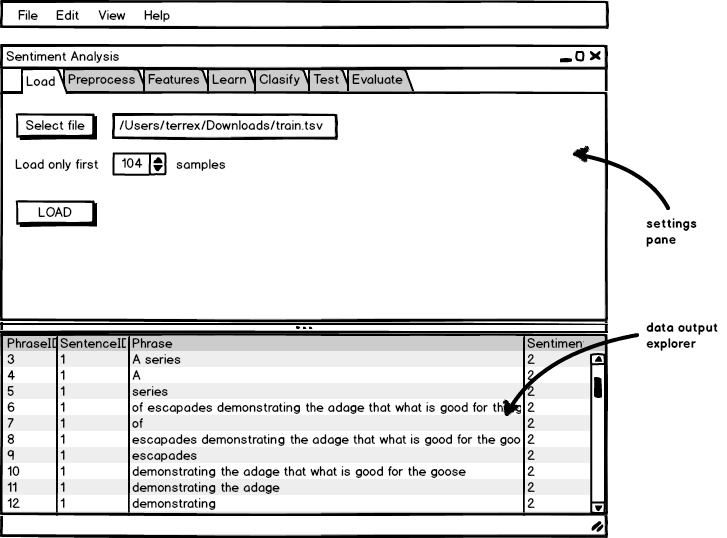
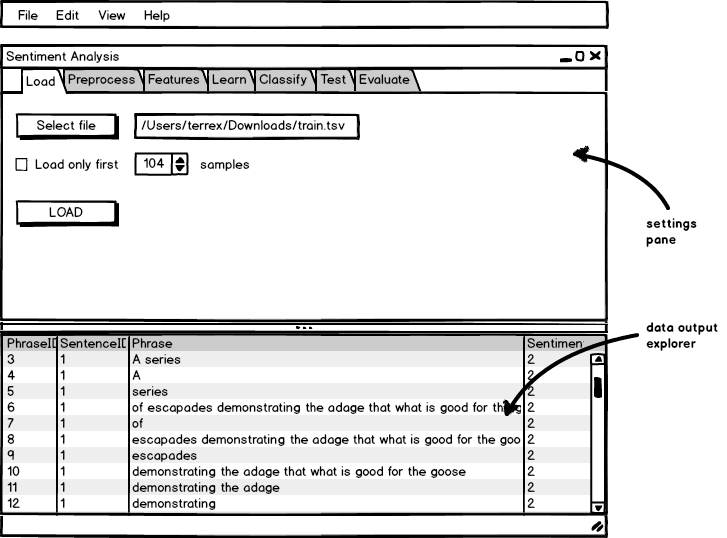
GUI

Changed region(s): [[0.0, 0.2082, 0.5144, 0.3271], [0.3934, 0.119, 0.575, 0.1784], [0.0605, 0.3569, 0.1816, 0.4461]]

diff --git a/qtdesign/pfcsamr.qml b/qtdesign/pfcsamr.qml
@@ -7,8 +7,10 @@ import QtQuick.Dialogs 1.2
 ApplicationWindow {
     id: rootWindow
     objectName: "rootWindow"
-    width: 640
-    height: 480
+    width: 720
+    height: 560
+    minimumWidth: 720
+    minimumHeight: 560
 
     menuBar: MenuBar {
         Menu {
@@ -78,119 +80,133 @@ ApplicationWindow {
         onAccepted: mainPfcsamrApp.load_tsv(fileUrl)
     }
 
-    TabView {
+    ListModel {
+        id: libraryModel
+        ListElement {
+            title: "A Masterpiece"
+            author: "Gabriel"
+        }
+        ListElement {
+            title: "Brilliance"
+            author: "Jens"
+        }
+        ListElement {
+            title: "Outstanding"
+            author: "Frederik"
+        }
+    }
+
+    SplitView {
         anchors.fill: parent
+        orientation: Qt.Vertical
 
-        Tab {
-            id: designTab
-            objectName: "designTab"
-            title: "Design"
+        Rectangle {
+            Layout.minimumHeight: 300
 
-            TextArea {
-                id: txtProgram
-                objectName: "txtProgram"
+            TabView {
                 anchors.fill: parent
-                textFormat: TextEdit.AutoText
+
+                Tab {
+                    id: loadTab
+                    objectName: "loadTab"
+                    title: "Load"
+                    anchors.margins: 10
+
+                    GridLayout {
+                        columns: 1
+
+                        RowLayout {
+                            Button {
+                                text: "Select file"
+                            }
+                            TextField {
+                                width: 100
+                            }
+                        }
+                        RowLayout {
+                            CheckBox {
+                                id: loadOnlyFirst
+                                text: "Load only first"
+                                checked: false
+                            }
+                            SpinBox {
+                                enabled: loadOnlyFirst.checked
+                                minimumValue: 0
+                                maximumValue: 1000 //Actualizar por código
+                                value: 1000 //Actualizar por código
+                            }
+                            Label {
+                                text: "samples"
+                            }
+                        }
+                        RowLayout {
+                            Button {
+                                text: "LOAD"
+                            }
+                        }
+                        RowLayout {
+                            anchors.fill: parent
+                        }
+                    }
+                }
+
+                Tab {
+                    id: preprocessTab
+                    objectName: "preprocessTab"
+                    title: "Preprocess"
+                }
+
+                Tab {
+                    id: featuresTab
+                    objectName: "featuresTab"
+                    title: "Features"
+                }
+
+                Tab {
+                    id: learnTab
+                    objectName: "learnTab"
+                    title: "Learn"
+                }
+
+                Tab {
+                    id: classifyTab
+                    objectName: "classifyTab"
+                    title: "Classify"
+                }
+
+                Tab {
+                    id: testTab
+                    objectName: "testTab"
+                    title: "Test"
+                }
+
+                Tab {
+                    id: evaluateTab
+                    objectName: "evaluateTab"
+                    title: "Evaluate"
+                }
             }
         }
 
-        Tab {
-            id: runTab
-            objectName: "runTab"
-            title: "Run"
-        }
+        Rectangle {
+            Layout.minimumHeight: 100
 
-        onCurrentIndexChanged: {
-            if (currentIndex == 0) {
-                rootWindow.toolBar = designTabToolbar
-                designTabToolbar.visible = true
-                runTabToolbar.visible = false
-                emptyToolbar.visible = false
-            } else if (currentIndex == 1) {
-                rootWindow.toolBar = runTabToolbar
-                designTabToolbar.visible = false
-                runTabToolbar.visible = true
-                emptyToolbar.visible = false
+            TableView {
+                anchors.fill: parent
+
+                TableViewColumn {
+                    role: "title"
+                    title: "Title"
+                }
+                TableViewColumn {
+                    role: "author"
+                    title: "Author"
+                }
+                model: libraryModel
             }
         }
     }
 
-    ToolBar {
-        id: emptyToolbar
-        objectName: "emptyToolbar"
-        visible: false
-
-        RowLayout {
-            Item {
-                Layout.fillWidth: true
-            }
-        }
-    }
-
-    ToolBar {
-        id: runTabToolbar
-        objectName: "runTabToolbar"
-        visible: false
-
-        RowLayout {
-            anchors.fill: parent
-            ToolButton {
-                id: btnRun
-                objectName: "btnRun"
-                text: qsTr("Run")
-                onClicked: mainPfcsamrApp.run_script()
-            }
-        }
-    }
-
-    toolBar: ToolBar {
-        id: designTabToolbar
-        objectName: "designTabToolbar"
-
-        RowLayout {
-            anchors.fill: parent
-            ToolButton {
-                id: btnOpenTrain
-                objectName: "btnOpenTrain"
-                text: qsTr("Open train.tsv")
-                onClicked: fileDialogChooseTSV.open()
-            }
-            ToolButton {
-                text: qsTr("Remove contractions")
-                onClicked: mainPfcsamrApp.remove_contractions()
-            }
-            ToolButton {
-                text: qsTr("Tokenize")
-                onClicked: mainPfcsamrApp.tokenize()
-            }
-            ToolButton {
-                text: qsTr("Remove stopwords")
-                onClicked: mainPfcsamrApp.remove_stopwords()
-            }
-            ToolButton {
-                text: qsTr("Stemmize")
-                onClicked: mainPfcsamrApp.stemmize()
-            }
-            ToolButton {
-                text: qsTr("Lemmatize")
-                onClicked: mainPfcsamrApp.lemmatize()
-            }
-            ToolButton {
-                text: qsTr("BOW")
-                onClicked: mainPfcsamrApp.bow()
-            }
-            ToolButton {
-                text: qsTr("2-BOW")
-                onClicked: mainPfcsamrApp.bow_bigrams()
-            }
-            ToolButton {
-                text: qsTr("word2vec")
-                onClicked: mainPfcsamrApp.word2vec()
-            }
-            ToolButton {
-                text: qsTr("vectorize")
-                onClicked: mainPfcsamrApp.vectorize()
-            }
-        }
+    statusBar: StatusBar {
     }
 }
